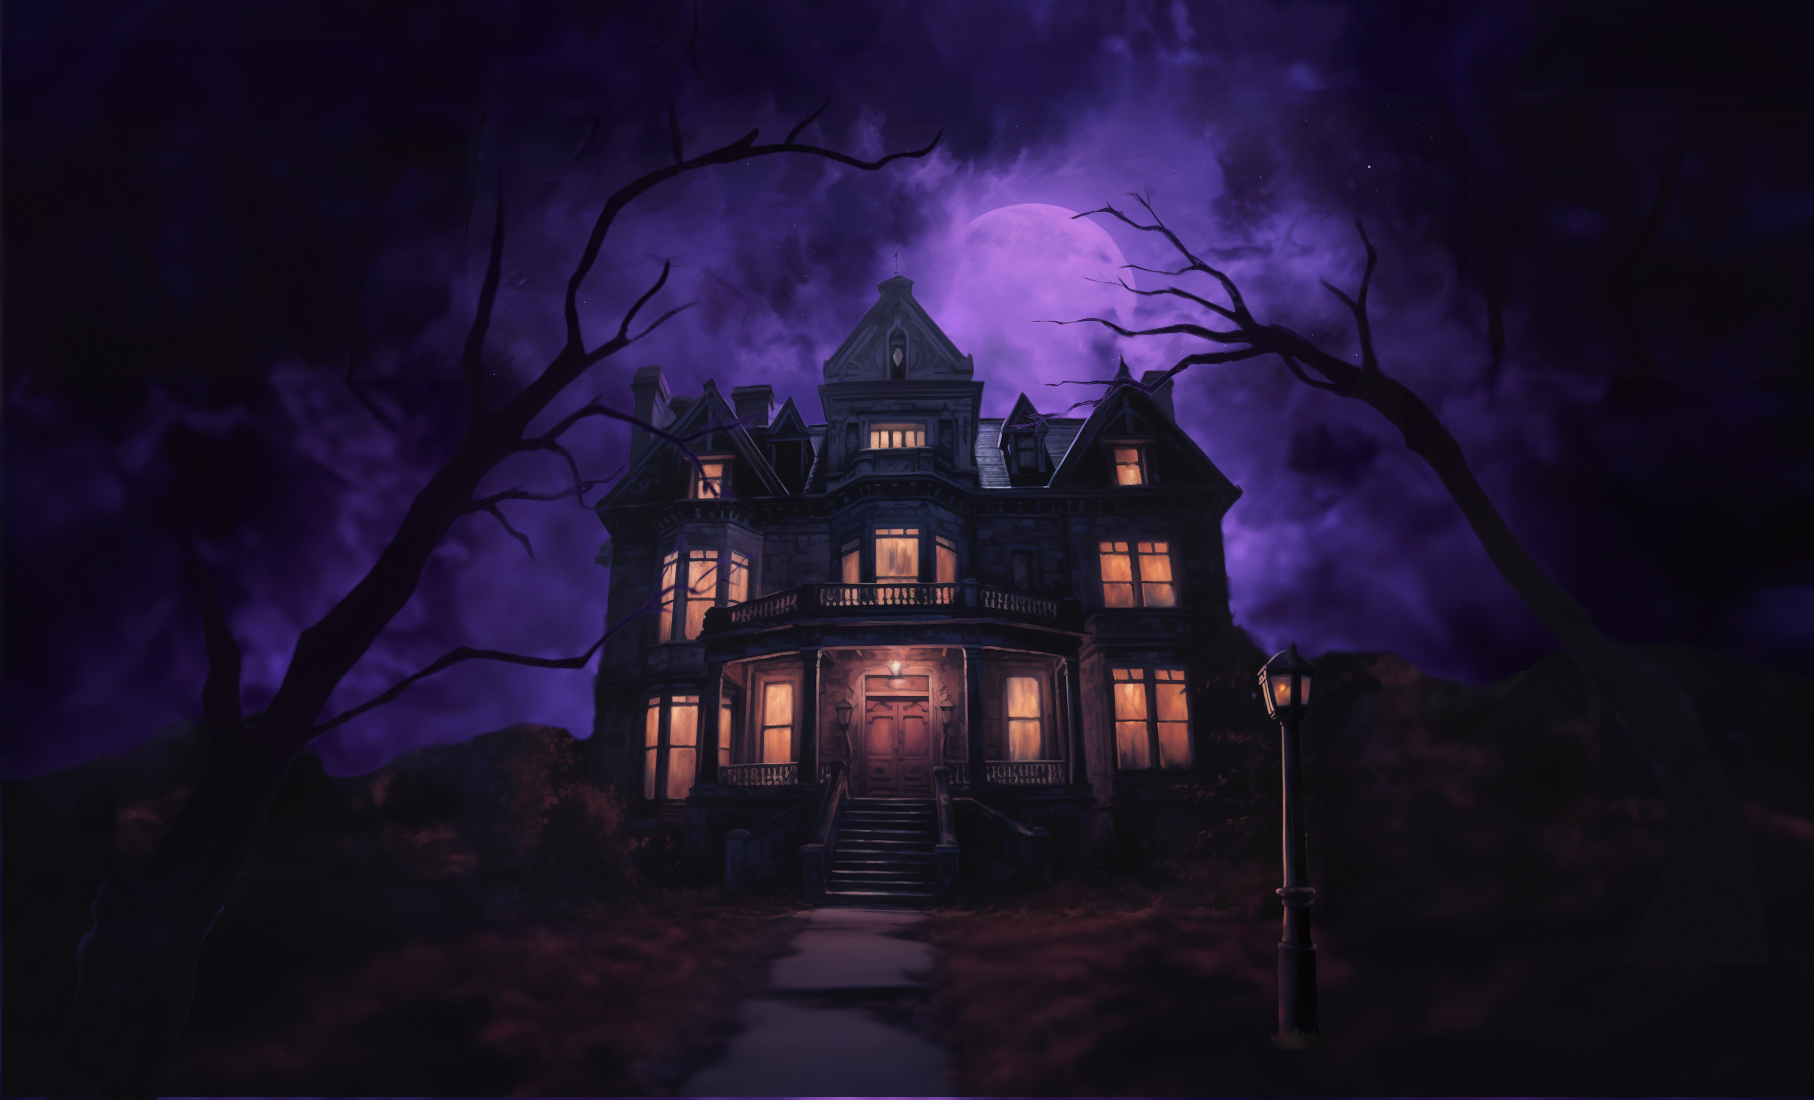
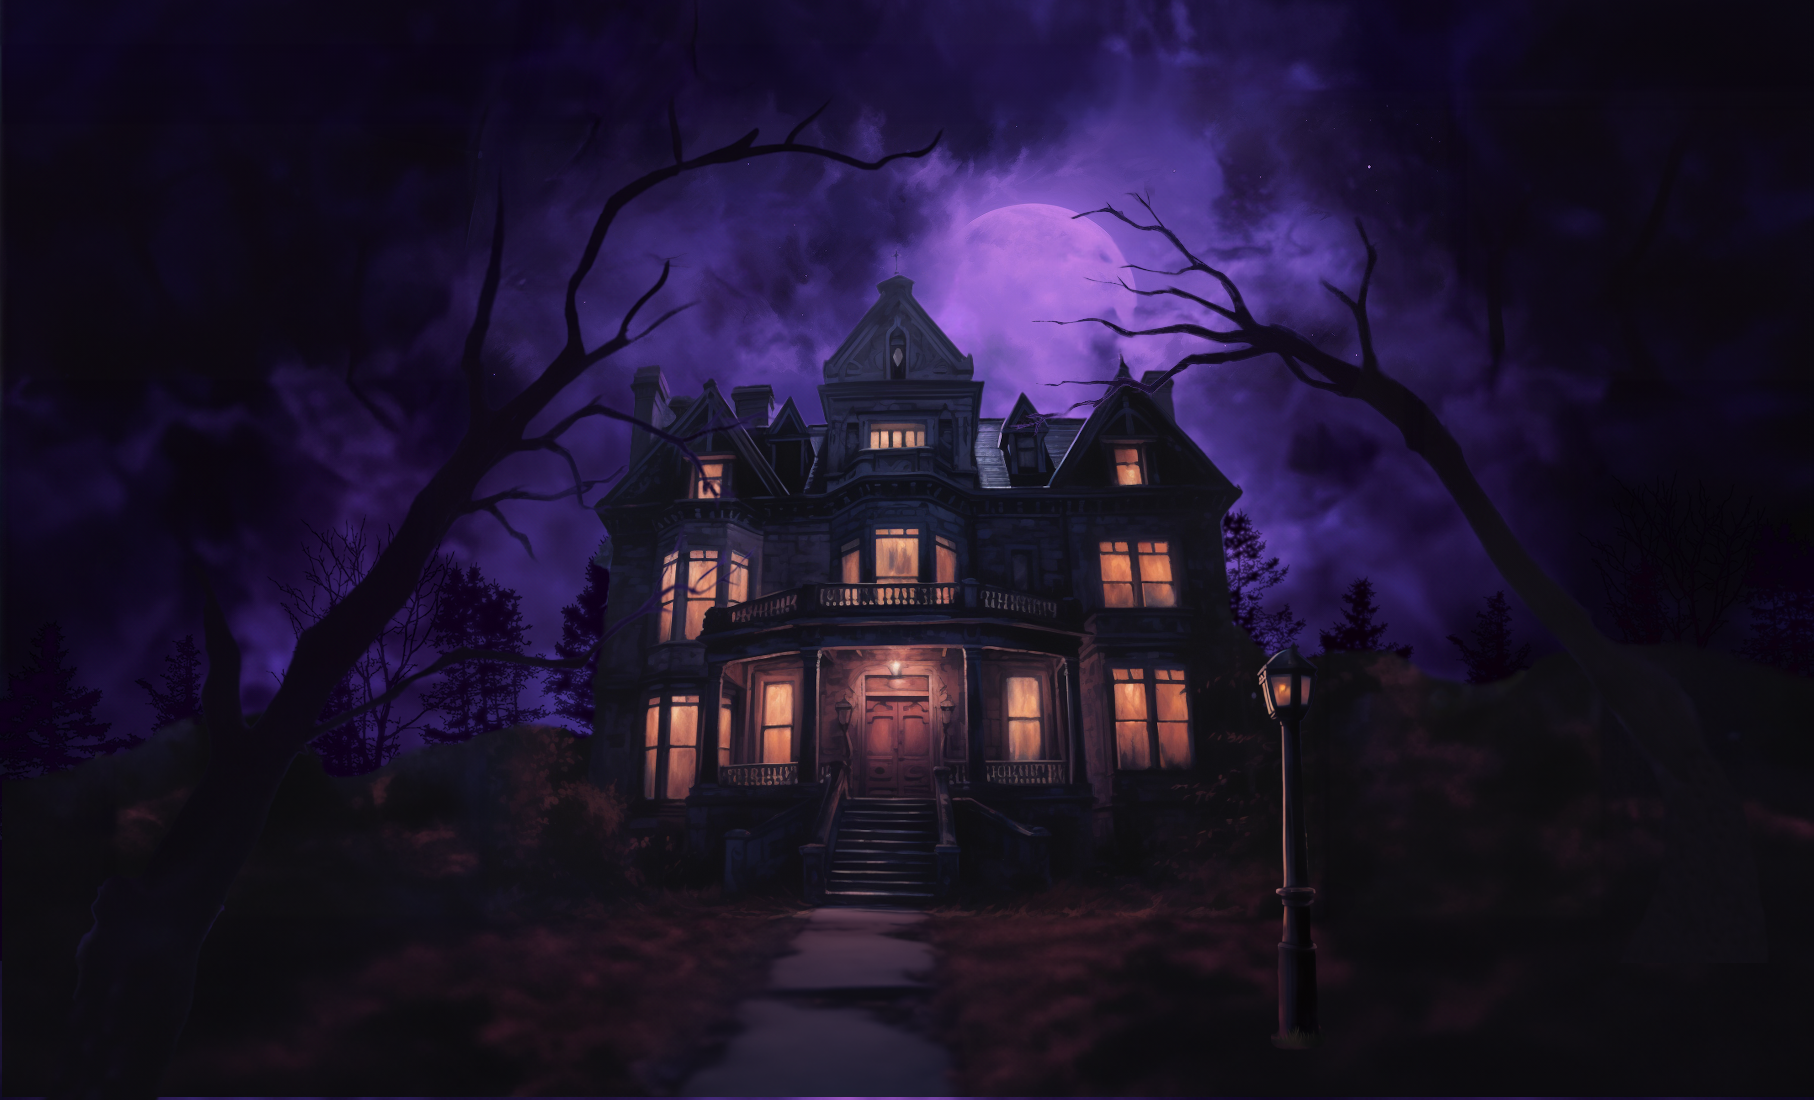
min heights and widths so it never looks crazy and new og/mobile image with trees

diff --git a/src/app/page.tsx b/src/app/page.tsx
@@ -102,8 +102,8 @@ const Hero = () => {
 
   return (
     <div className='w-screen'>
-    <div className='w-screen overflow-x-hidden md:hidden'>
-    <img height={"100vh"} src={'/og.webp'} className='mainImage' />
+      <div className='w-screen overflow-x-hidden md:hidden min-h-[500px]'>
+        <img height={"100vh"} src={'/og.webp'} className='mainImage' />
     <div
       className='md:hidden'
         style={{ width: '100%', position: 'absolute', top: '25%' }}
@@ -113,6 +113,7 @@ const Hero = () => {
             alignItems: 'center',
             width: '100%',
             position: 'absolute',
+            minWidth: "270px",
           }}
         >
           <div className="pb-6">
@@ -137,7 +138,7 @@ const Hero = () => {
               A TIMELY MANOR
             </div>
           </div>
-          <div className='mx-auto flex-col flex gap-4 justify-center items-center mt-10'>
+          <div className='mx-auto flex-col sm:flex-row flex gap-4 justify-center items-center mt-10'>
         <JoinButton
           url="https://testflight.apple.com/join/KcLyBhjj"
           imageSrc='/assets/images/Apple_logo_white.svg'

diff --git a/src/app/globals.css b/src/app/globals.css
@@ -186,6 +186,7 @@ body {
 .mainImage {
   max-width: none;
   max-height: 100vh;
+  min-height: 500px;
   margin-left: 50%;
   transform: translate(-50%);
 }
